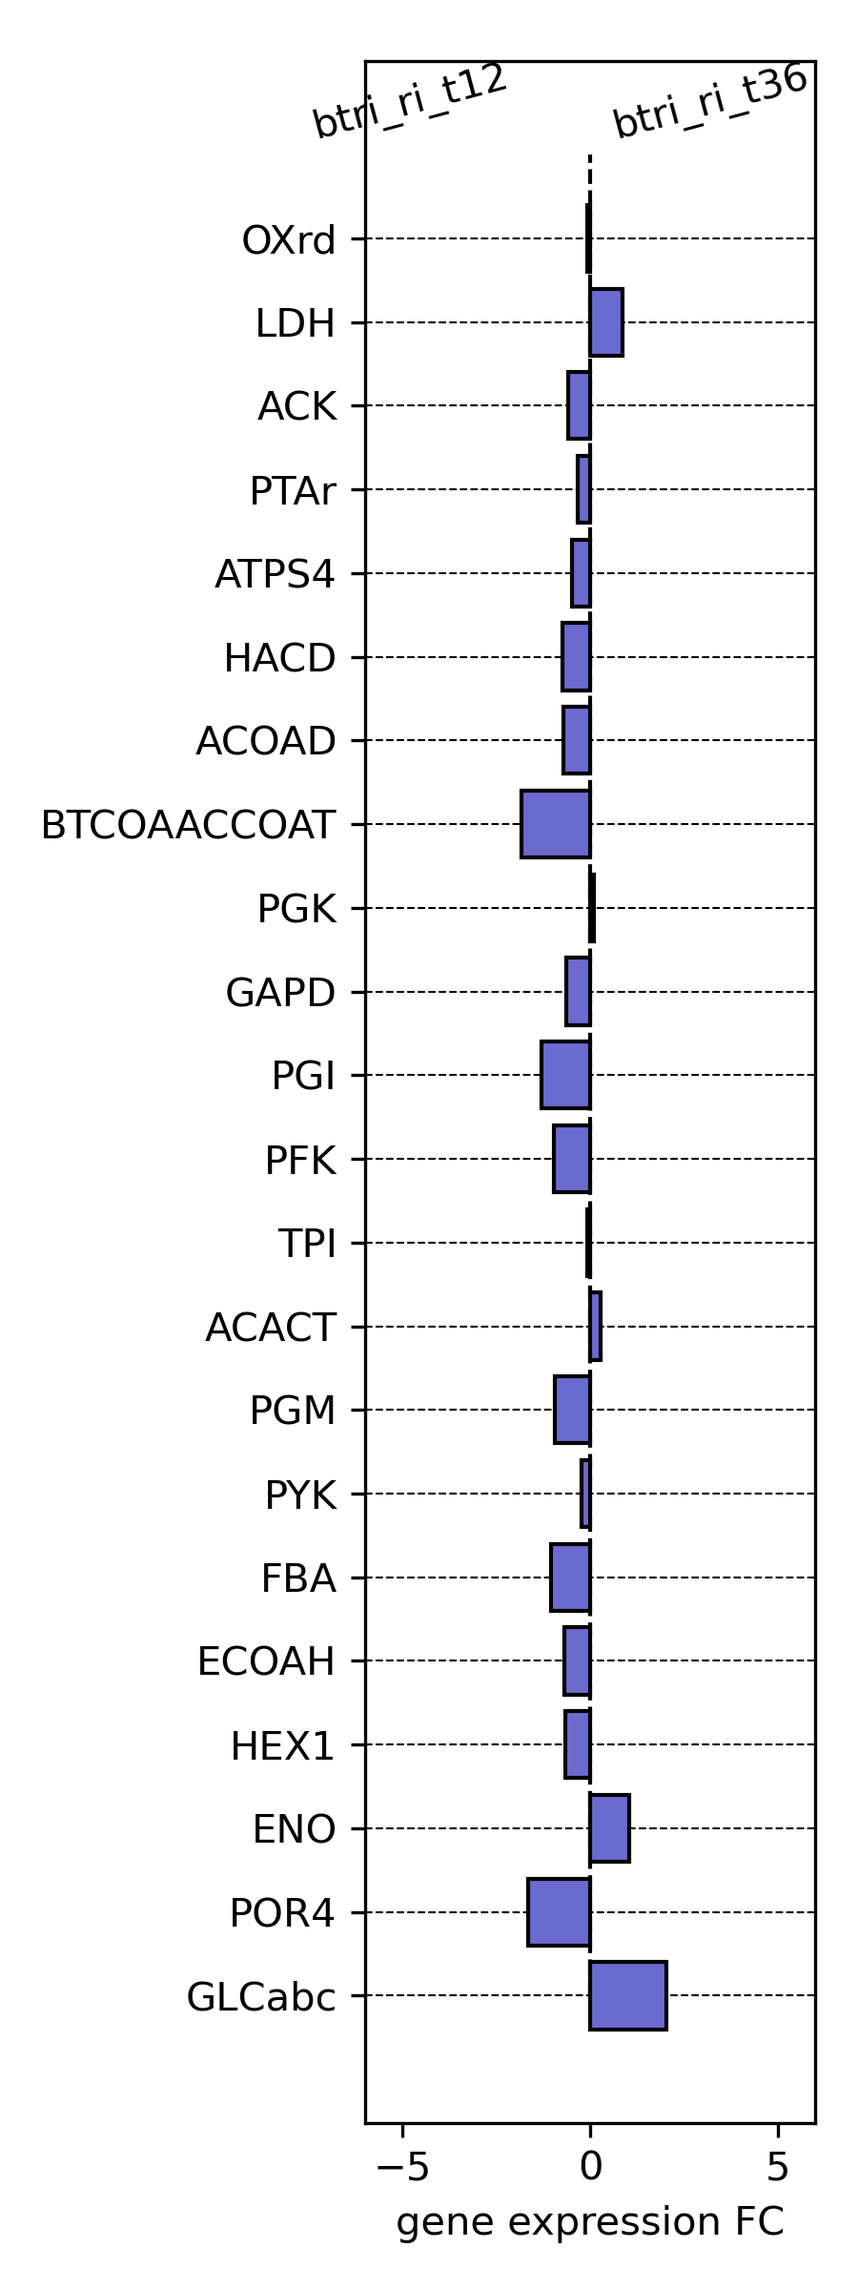
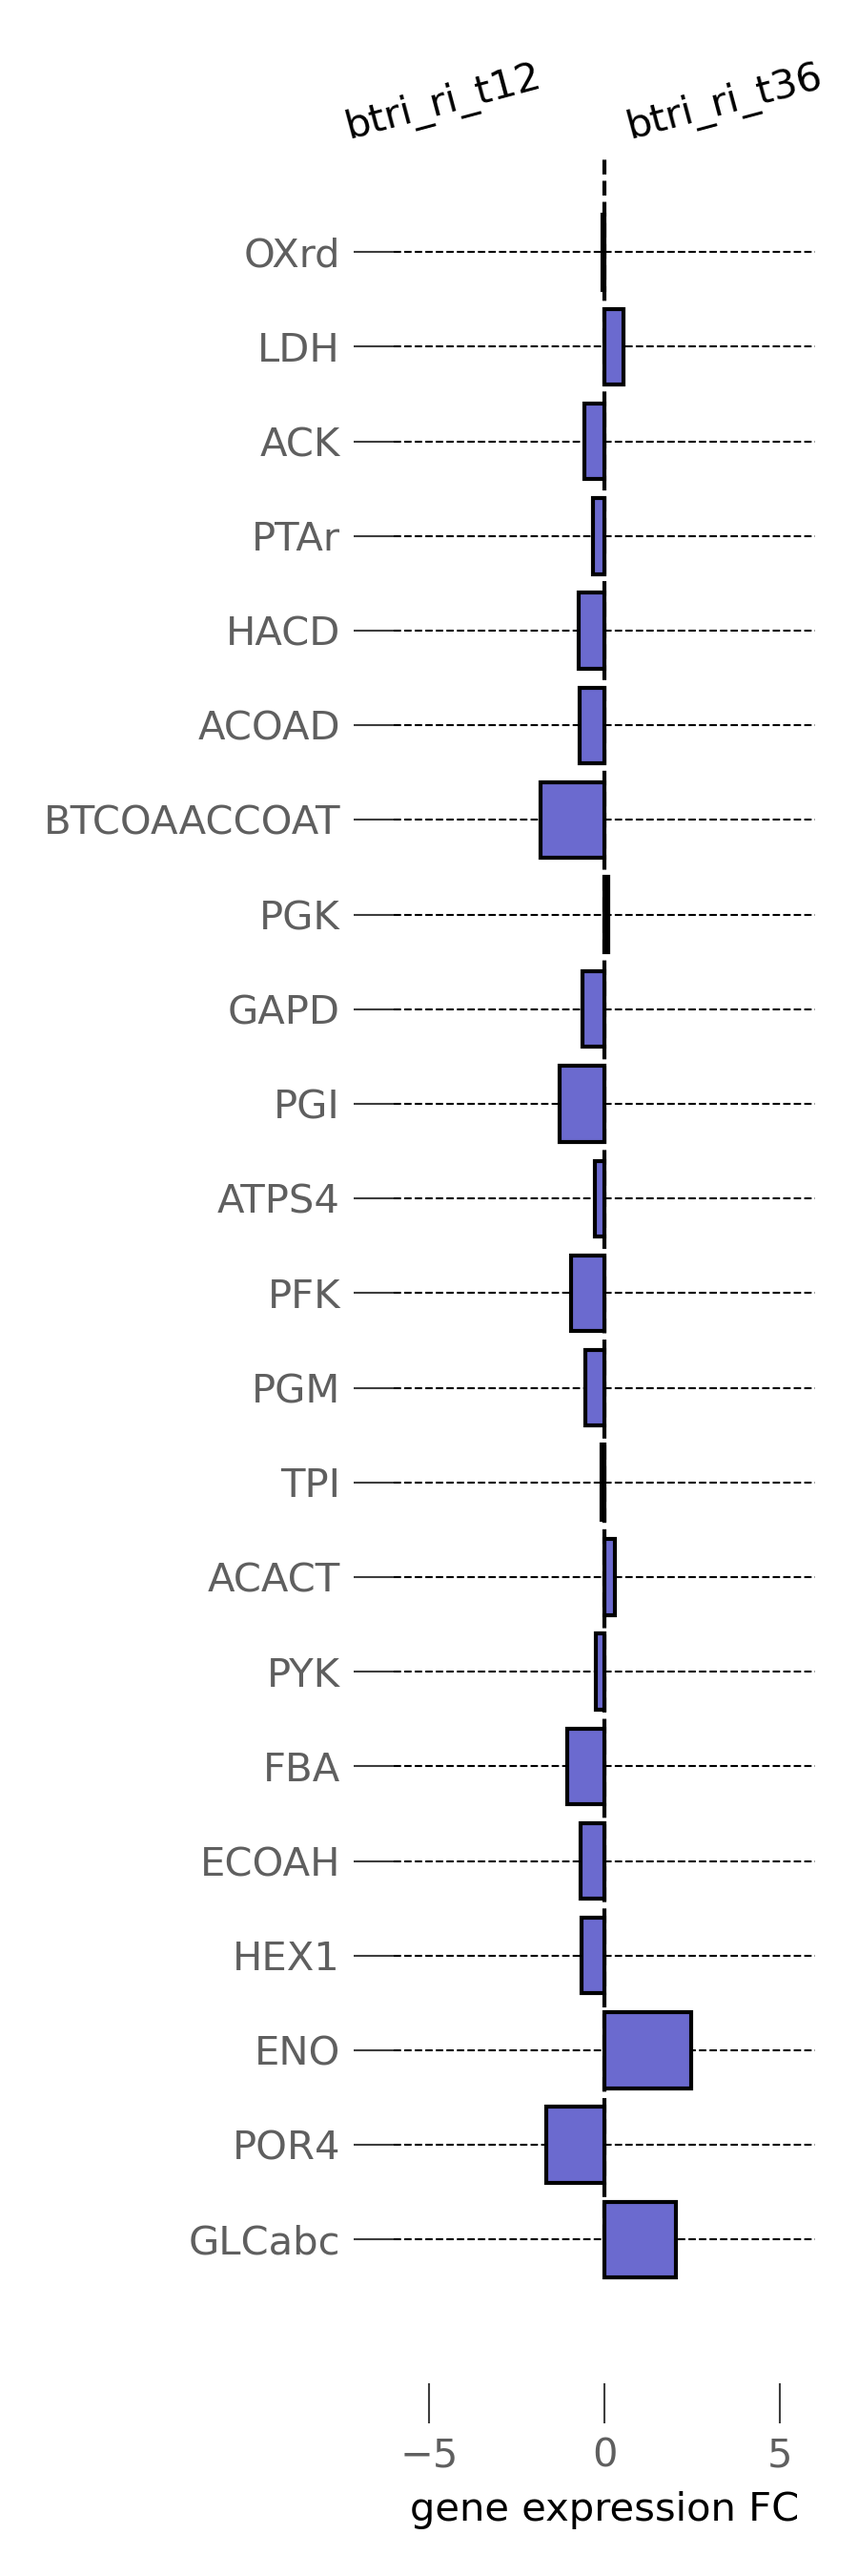
updates

Changed region(s): [[0.0622, 0.0, 0.6222, 0.9375], [0.4667, 0.0, 0.9644, 1.0]]

diff --git a/scripts/geneExpression/riBarPlots.py b/scripts/geneExpression/riBarPlots.py
@@ -10,8 +10,10 @@ from pathlib import Path
 import numpy as np
 import scipy.stats as sts
 import cobra
+from aquarel import load_theme
+theme = load_theme("minimal_light")
+theme.apply()
 import matplotlib.pyplot as plt
-plt.style.use('seaborn-bright')
 
 from parseGenExpData import *
 
@@ -91,15 +93,12 @@ labels[labels=='HACD1'] = 'HACD'
 
 c= np.array(['#6B6ACF']*len(x))
 
+c[(p < 0.01) & (x > 0)] = '#001eff'
+
+c[(p < 0.01) & (x < 0)] = '#44A043'
 
 
-c[(p < 0.05) & (x > 0)] = '#001eff'
-
-c[(p < 0.05) & (x < 0)] = '#44A043'
-
-
-
-
+plt.rcParams["figure.figsize"] = (3 ,9)
 
 fig, ax = plt.subplots()
 
@@ -120,7 +119,7 @@ ax.set_xlabel('gene expression FC')
 ax.text(-fcRange/2, len(x) + .2, gA)
 ax.text(fcRange/2, len(x) + .2, gB)
 
-plt.rcParams["figure.figsize"] = (3 ,8)
+plt.rcParams["figure.figsize"] = (3 ,9)
 plt.tight_layout()
 
 plt.savefig(os.path.join(figuresFolder, 'geneExp_' + gA + 'vs' + gB + '.png'), dpi = 300)
@@ -141,11 +140,9 @@ x,p,g = extracReactions(riGE, reactionList, group)
 
 c= np.array(['#6B6ACF']*len(x))
 
+c[(p < 0.01) & (x > 0)] = '#bd00ff'
 
-
-c[(p < 0.05) & (x > 0)] = '#001eff'
-
-c[(p < 0.05) & (x < 0)] = '#44A043'
+c[(p < 0.01) & (x < 0)] = '#44A043'
 
 
 
@@ -170,7 +167,7 @@ ax.set_xlabel('gene expression FC')
 ax.text(-fcRange/2, len(x) + .2, gA)
 ax.text(fcRange/2, len(x) + .2, gB)
 
-plt.rcParams["figure.figsize"] = (3 ,8)
+plt.rcParams["figure.figsize"] = (3 ,9)
 plt.tight_layout()
 
 plt.savefig(os.path.join(figuresFolder, 'geneExp_' + gA + 'vs' + gB + '.png'), dpi = 300)
@@ -189,10 +186,10 @@ x,p,g = extracReactions(riGE, reactionList, group)
 c= np.array(['#6B6ACF']*len(x))
 
 
+c[(p < 0.01) & (x > 0)] = '#bd00ff'
 
-c[(p < 0.05) & (x > 0)] = '#BD00FF'
+c[(p < 0.01) & (x < 0)] = '#001eff'
 
-c[(p < 0.05) & (x < 0)] = '#001EFF'
 
 
 
@@ -217,7 +214,7 @@ ax.set_xlabel('gene expression FC')
 ax.text(-fcRange/2, len(x) + .2, gA)
 ax.text(fcRange/2, len(x) + .2, gB)
 
-plt.rcParams["figure.figsize"] = (3 ,8)
+plt.rcParams["figure.figsize"] = (3 ,9)
 plt.tight_layout()
 
 plt.savefig(os.path.join(figuresFolder, 'geneExp_' + gA + 'vs' + gB + '.png'), dpi = 300)
@@ -265,7 +262,7 @@ ax.set_xlabel('gene expression FC')
 ax.text(-7.5, len(x) + .2, gA, rotation=15)
 ax.text(0.5, len(x) + .2, gB, rotation=15)
 
-plt.rcParams["figure.figsize"] = (3 ,8)
+plt.rcParams["figure.figsize"] = (3 ,9)
 plt.tight_layout()
 
 plt.savefig(os.path.join(figuresFolder, 'geneExp_' + gA + 'vs' + gB + '.png'), dpi = 300)
@@ -313,7 +310,7 @@ ax.set_xlabel('gene expression FC')
 ax.text(-7.5, len(x) + .2, gA, rotation=15)
 ax.text(0.5, len(x) + .2, gB, rotation=15)
 
-plt.rcParams["figure.figsize"] = (3 ,8)
+plt.rcParams["figure.figsize"] = (3 ,9)
 plt.tight_layout()
 
 plt.savefig(os.path.join(figuresFolder, 'geneExp_' + gA + 'vs' + gB + '.png'), dpi = 300)
@@ -362,7 +359,7 @@ ax.set_xlabel('gene expression FC')
 ax.text(-7.5, len(x) + .2, gA, rotation=15)
 ax.text(0.5, len(x) + .2, gB, rotation=15)
 
-plt.rcParams["figure.figsize"] = (3 ,8)
+plt.rcParams["figure.figsize"] = (3 ,9)
 plt.tight_layout()
 
 plt.savefig(os.path.join(figuresFolder, 'geneExp_' + gA + 'vs' + gB + '.png'), dpi = 300)
